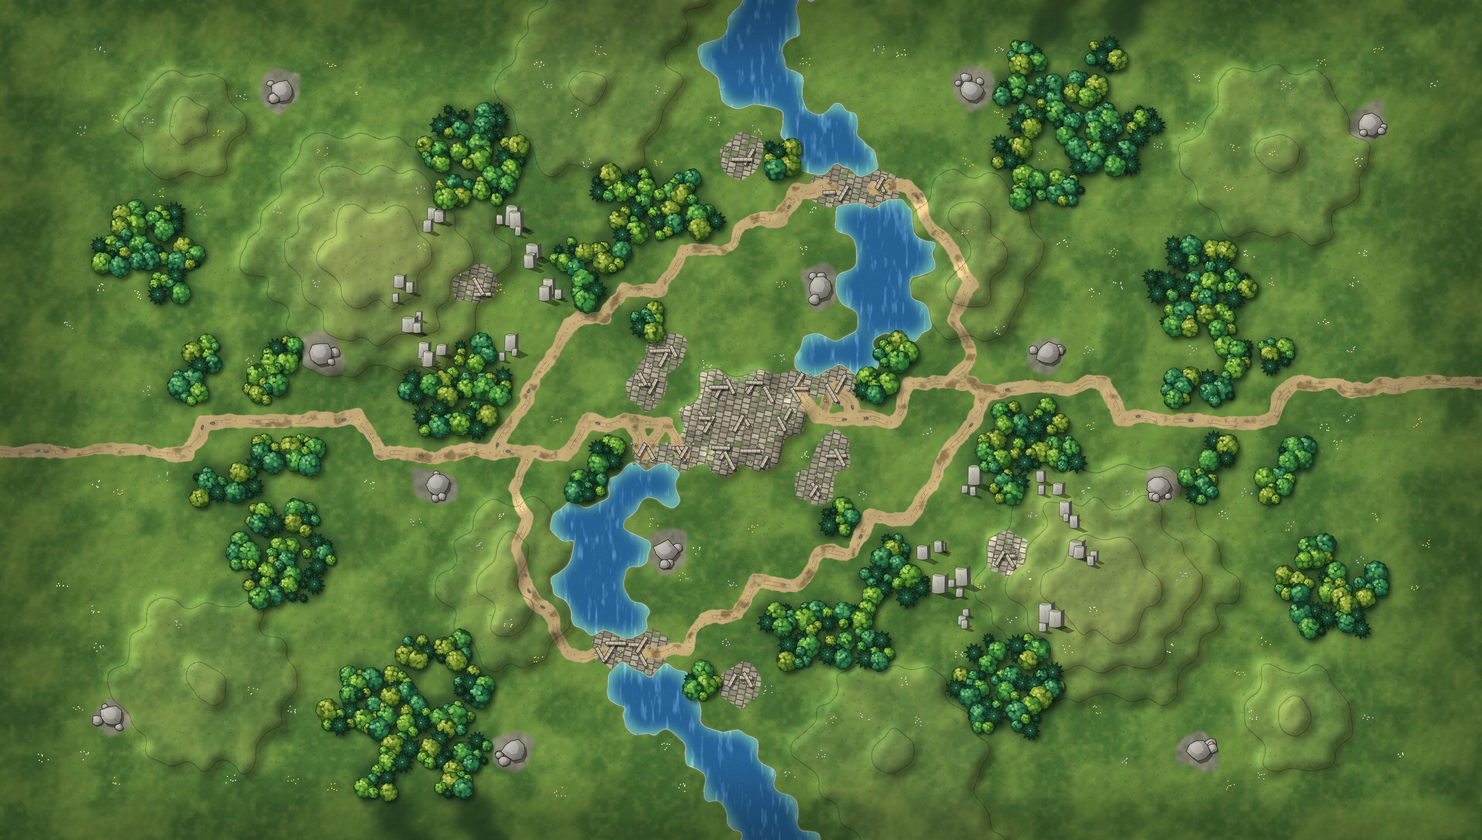
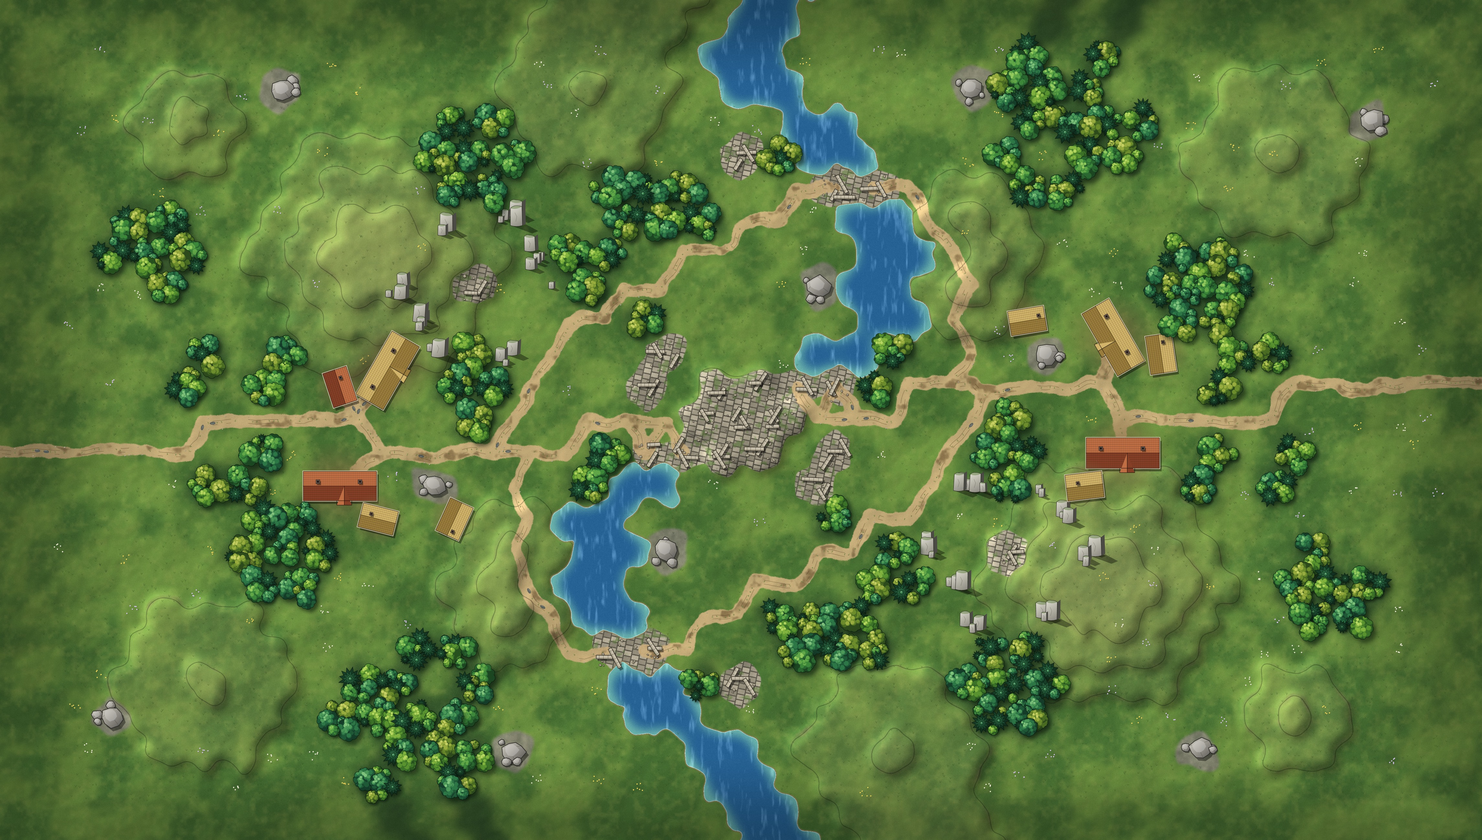
Add a village to Greenvale, goblins, heroes and a raid scenario (Goblin Warren)

diff --git a/src/engine.js b/src/engine.js
@@ -54,6 +54,7 @@ export const CLASSES = {
   worm:    { name: 'Rock worm',    glyph: 'M', hp: 20, atk: 6, move: 3, rmin: 1, rmax: 1, sight: 3, size: 'large', burrow: true, value: 1.5 },
   // regen: heals that much at the start of each of its own turns.
   troll:   { name: 'Cave troll',   glyph: 'T', hp: 22, atk: 6, move: 3, rmin: 1, rmax: 1, sight: 4, regen: 2 },
+  goblin:  { name: 'Goblin',  glyph: 'G', hp: 8,  atk: 4, move: 4, rmin: 1, rmax: 1, sight: 4, value: 0.5 },     // weak alone, dangerous in numbers
   wizard:  { name: 'Wizard',  glyph: 'W', hp: 8,  atk: 4, move: 3, rmin: 1, rmax: 3, sight: 5, pierce: true, spells: ['fireball', 'frost', 'blink'] },   // lightning ignores cover
 };
 
@@ -72,6 +73,11 @@ export const SPELLS = {
   web:      { name: 'Web',        rmin: 2, rmax: 3, cooldown: 3, dmg: 1, splash: 1, area: true, freeze: true, snare: true },
   blink:    { name: 'Blink',      rmin: 1, rmax: 4, cooldown: 3, blink: true },
 };
+
+// Heroes: a spawn marked `hero: true` makes a unit with HERO_HP times its class's hit points that hits
+// HERO_ATK harder — a party of a few against many. A unit's full health is maxHp(u).
+export const HERO_HP = 2, HERO_ATK = 0;
+export const maxHp = (u) => u.max || CLASSES[u.cls].hp;
 
 // Ground nothing can stand on (rock, lava).
 export const impassable = (c) => TERRAIN[c.t].cost === Infinity;
@@ -150,13 +156,18 @@ export function fits(state, unit, at = unit) {
 //       reaching `target` (map.siege.target, default 2) or by wiping the defenders out; the defender
 //       wins by wiping the attackers out or by lasting to the round limit (map.siege.rounds).
 //       A map that has a `siege` entry is played this way unless another mode is asked for.
+//       'raid' — asymmetric. The attackers must wipe the defenders (map.raid.defender, default 1 = Red)
+//       out before the round limit (map.raid.rounds); otherwise the defenders win. A map that has
+//       a `raid` entry is played this way unless another mode is asked for.
 //       'hold' — control points. At the end of each team's turn, any point with a unit standing on
 //       it goes to that unit's team and stays theirs until an enemy stands on it; the team whose
 //       turn is ending then scores 1 per point it owns. First to `target` wins (default 2 per
 //       point); wiping the enemy out still wins too. Points come from map.objectives, or are
 //       placed automatically along the line where the two armies meet.
 export function createGame(map, { maxRounds = 0, fog = false, counters = true, zoc = true, mode, target = 0, dragons = 'none', monsters, wild } = {}) {
-  if (!mode) mode = map.siege ? 'siege' : 'eliminate';
+  if (!mode) mode = map.siege ? 'siege' : map.raid ? 'raid' : 'eliminate';
+  const raid = mode === 'raid' ? { defender: 1, ...(map.raid || {}) } : null;
+  if (!maxRounds && raid?.rounds) maxRounds = raid.rounds;
   const siege = mode === 'siege' ? { defender: 1, target: 2, ...(map.siege || {}) } : null;
   if (!maxRounds && siege?.rounds) maxRounds = siege.rounds;
   if (!maxRounds) {                                // 30, or longer when the armies start far apart
@@ -168,7 +179,9 @@ export function createGame(map, { maxRounds = 0, fog = false, counters = true, z
   for (const team of [0, 1]) {
     map.spawns[team].forEach((s, i) => {
       const cls = s.cls || ROSTER[i % ROSTER.length];
-      units.push({ id: units.length, team, cls, q: s.q, r: s.r, hp: CLASSES[cls].hp, moved: false, acted: false });
+      const u = { id: units.length, team, cls, q: s.q, r: s.r, hp: CLASSES[cls].hp, moved: false, acted: false };
+      if (s.hero) { u.hero = true; u.max = u.hp = CLASSES[cls].hp * HERO_HP; }
+      units.push(u);
     });
   }
   // dragons: 'none' | 'both' | 'red' | 'blue' — an extra Dragon for those teams, behind their line.
@@ -245,10 +258,10 @@ export function createGame(map, { maxRounds = 0, fog = false, counters = true, z
     if (siege && !placed.length) objectives = objectives.slice(0, 1);
   }
   // roster: both starting line-ups (public knowledge, even under fog).
-  const roster = units.map(({ id, team, cls, q, r, o }) => ({ id, team, cls, q, r, o }));
+  const roster = units.map(({ id, team, cls, q, r, o, hero, max }) => ({ id, team, cls, q, r, o, ...(hero ? { hero, max } : {}) }));
   return { map, units, roster, turn: 0, round: 1, winner: null, maxRounds, fog, counters, zoc,
     mode, objectives, owners: objectives.map(() => (siege ? siege.defender : null)), score: [0, 0],
-    defender: siege ? siege.defender : null, target: target || (siege ? siege.target : 2 * objectives.length) };
+    defender: siege ? siege.defender : raid ? raid.defender : null, target: target || (siege ? siege.target : 2 * objectives.length) };
 }
 
 export const clone = (s) => ({ ...s, units: s.units.map((u) => ({ ...u })), owners: s.owners.slice(), score: s.score.slice() });
@@ -531,7 +544,7 @@ export function damage(map, attacker, from, target, at = target) {
   }
   if (cls.pierce) cover = Math.min(0, cover);
   const h = Math.max(-2, Math.min(2, high - low));
-  return Math.max(1, cls.atk + h - cover - (wet ? 1 : 0));
+  return Math.max(1, cls.atk + (attacker.hero ? HERO_ATK : 0) + h - cover - (wet ? 1 : 0));
 }
 
 // Damage `defender` would deal back to `attacker` (standing on `from`) after surviving its attack:
@@ -811,10 +824,10 @@ export function applyAction(state, a) {
       if (u.team === ending && u.frozen) u.frozen = 0;                         // its frozen turn is over
       if (u.team !== state.turn) continue;
       for (const sp of CLASSES[u.cls].spells || []) if (u['cd_' + sp] > 0) u['cd_' + sp]--;
-      if (CLASSES[u.cls].regen) u.hp = Math.min(CLASSES[u.cls].hp, u.hp + CLASSES[u.cls].regen);
+      if (CLASSES[u.cls].regen) u.hp = Math.min(maxHp(u), u.hp + CLASSES[u.cls].regen);
     }
     if (state.round > state.maxRounds) {         // out of time: on points if there are any, else a draw
-      if (state.mode === 'siege') { state.winner = state.defender; return ev; }      // the keep held out
+      if (state.mode === 'siege' || state.mode === 'raid') { state.winner = state.defender; return ev; }      // the keep (or the colony) held out
       const [s0, s1] = state.score;
       state.winner = s0 > s1 ? 0 : s1 > s0 ? 1 : 'draw';
     }
@@ -928,7 +941,7 @@ export function evaluate(state, team) {
   if (state.winner === team) return 1000;
   if (state.winner === 1 - team) return -1000;
   let v = 0;
-  for (const u of state.units) v += (u.team === team ? 1 : u.team === WILD ? -0.25 : -1) * (4 + 6 * u.hp / CLASSES[u.cls].hp) * (CLASSES[u.cls].value || 1);
+  for (const u of state.units) v += (u.team === team ? 1 : u.team === WILD ? -0.25 : -1) * (4 + 6 * u.hp / maxHp(u)) * (CLASSES[u.cls].value || 1) * (u.hero ? HERO_HP : 1);
   if (state.unseen) v += (state.observer === team ? -1 : 1) * state.unseen * 8;   // enemies we can't see still count
   if (state.mode === 'siege') {                  // the attacker wants points and has a clock against it
     const att = 1 - state.defender, side = team === att ? 1 : -1;

diff --git a/src/main.js b/src/main.js
@@ -223,17 +223,18 @@ function refresh() {
   $('undo').title = state.fog ? 'Not available under fog of war (a move may reveal enemies)' : '';
   if (state.winner !== null) {
     b.className = 'over';
-    const heldOut = state.mode === 'siege' && state.winner === state.defender && state.units.some((u) => u.team !== state.winner);
+    const heldOut = (state.mode === 'siege' || state.mode === 'raid') && state.winner === state.defender && state.units.some((u) => u.team !== state.winner);
     const onPoints = (state.mode === 'hold' || state.mode === 'siege') && !heldOut && state.winner !== 'draw' && state.units.some((u) => u.team !== state.winner);
     b.textContent = state.winner === 'draw' ? 'Draw — round limit reached'
-      : heldOut ? `${TEAM[state.winner]} wins — the keep held out!`
+      : heldOut ? `${TEAM[state.winner]} wins — the ${state.mode === 'raid' ? 'colony survived' : 'keep held out'}!`
       : `${TEAM[state.winner]} wins${onPoints ? ` on points, ${state.score[state.winner]}–${state.score[1 - state.winner]}` : ''}!`;
   } else {
     b.className = 't' + state.turn;
     const who = state.turn === E.WILD ? 'neutral monsters' : ais[state.turn] ? AIS[$('ctl' + state.turn).value].label + (thinking ? ', thinking\u2026' : '') : 'your move';
     b.textContent = `Round ${state.round}/${state.maxRounds} — ${TEAM[state.turn]} (${who})`
       + (state.mode === 'hold' ? `  ·  Blue ${state.score[0]} – ${state.score[1]} Red, first to ${state.target}` : '')
-      + (state.mode === 'siege' ? `  ·  ${TEAM[1 - state.defender]} ${state.score[1 - state.defender]}/${state.target} to take the keep · ${TEAM[state.defender]} must hold to round ${state.maxRounds}` : '');
+      + (state.mode === 'siege' ? `  ·  ${TEAM[1 - state.defender]} ${state.score[1 - state.defender]}/${state.target} to take the keep · ${TEAM[state.defender]} must hold to round ${state.maxRounds}` : '')
+      + (state.mode === 'raid' ? `  ·  ${TEAM[1 - state.defender]} must clear out ${TEAM[state.defender]} by round ${state.maxRounds}` : '');
   }
   $('info').textContent = infoText(me);
 }
@@ -290,8 +291,8 @@ function infoText(me) {
   if (view.fogVis && !view.fogVis.has(key(hover.q, hover.r))) lines.push('Out of sight');
   if (u) {
     const k = E.CLASSES[u.cls];
-    lines.push(`${label(u)} — HP ${u.hp}/${k.hp}`,
-      `ATK ${k.atk} · move ${k.move} · range ${k.rmin === k.rmax ? k.rmin : k.rmin + '–' + k.rmax + ' (+1 from high ground)'}${state.fog ? ` · sight ${k.sight}` : ''}`);
+    lines.push(`${u.hero ? 'Hero ' : ''}${label(u)} — HP ${u.hp}/${E.maxHp(u)}`,
+      `ATK ${k.atk + (u.hero ? E.HERO_ATK : 0)} · move ${k.move} · range ${k.rmin === k.rmax ? k.rmin : k.rmin + '–' + k.rmax + ' (+1 from high ground)'}${state.fog ? ` · sight ${k.sight}` : ''}`);
     if (k.size === 'large') lines.push('Large: occupies 3 hexes, cannot fit through single-hex gaps');
     if (k.pierce) lines.push('Lightning ignores cover');
     if (k.regen) lines.push(`Regenerates ${k.regen} HP at the start of each of its turns`);
@@ -683,7 +684,7 @@ async function openSavedMap(name) {
   custom = data;
   R.backdrop = bd;
   // A siege map is played as a siege; leaving one goes back to plain elimination.
-  if (data.siege) $('mode').value = 'siege'; else if ($('mode').value === 'siege') $('mode').value = 'eliminate';
+  if (data.siege) $('mode').value = 'siege'; else if (data.raid) $('mode').value = 'raid'; else if ($('mode').value === 'siege' || $('mode').value === 'raid') $('mode').value = 'eliminate';
   setOverlay(data.backdrop?.overlay ?? 0.4);
   if (bd) setView(true);
   store('map', name);

diff --git a/src/tokens.js b/src/tokens.js
@@ -255,6 +255,30 @@ function troll(team, facing = FACING[team]) {
   });
 }
 
+// Goblin: small and wiry — green skin, huge pointed ears, a ragged hood in the team's colour, a
+// crooked knife in one hand and a little buckler in the other.
+function goblin(team, facing = FACING[team]) {
+  return small(team, facing, (c, T) => {
+    const skin = [122, 166, 72], shade = [70, 104, 44];
+    shape(c, [[-0.02, -0.17], [-0.16, -0.19], [-0.27, -0.06], [-0.22, 0.02], [-0.29, 0.1], [-0.15, 0.19], [-0.02, 0.17]], rgb(T.dark), LW);   // ragged cape
+    shape(c, ellipse(0.12, 0.22, 0.14, 0.055, -0.25), rgb(skin), 0.024);                                            // knife arm
+    shape(c, [[0.22, 0.2], [0.5, 0.1], [0.6, 0.15], [0.47, 0.2], [0.25, 0.27]], rgb(STEEL[0]), 0.024);              // crooked blade
+    shape(c, ellipse(0.23, 0.235, 0.05, 0.05), rgb(skin), 0.02);
+    shape(c, ellipse(0.1, -0.2, 0.13, 0.055, 0.3), rgb(skin), 0.024);                                               // shield arm
+    shape(c, ellipse(0.24, -0.25, 0.14, 0.14), rgb(WOOD), LW);                                                      // buckler
+    shape(c, ellipse(0.24, -0.25, 0.05, 0.05), rgb(STEEL[1]), 0.02);
+    shape(c, ellipse(-0.02, 0, 0.13, 0.22), rgb(LEATHER[1]), LW);                                                   // narrow shoulders
+    for (const s of [-1, 1]) shape(c, [[0.02, 0.1 * s], [-0.1, 0.4 * s], [0.14, 0.15 * s]], rgb(skin), 0.024);       // ears
+    for (const s of [-1, 1]) shape(c, [[0.03, 0.14 * s], [-0.04, 0.31 * s], [0.09, 0.16 * s]], rgb(shade), 0);
+    const g = c.createRadialGradient(0.03, -0.05, 0.01, 0.07, 0, 0.17);
+    g.addColorStop(0, rgb(mix(skin, [240, 255, 200], 0.4))); g.addColorStop(1, rgb(skin));
+    shape(c, ellipse(0.07, 0, 0.16, 0.15), g, LW);                                                                  // head
+    shape(c, [[0.06, -0.15], [-0.1, -0.13], [-0.19, 0], [-0.1, 0.13], [0.06, 0.15], [0.0, 0]], rgb(T.base), 0.024); // hood, pushed back
+    shape(c, [[0.2, -0.03], [0.31, 0], [0.2, 0.03]], rgb(skin), 0.02);                                              // long nose
+    for (const s of [-1, 1]) { c.fillStyle = 'rgb(255,214,60)'; c.beginPath(); c.arc(0.15, 0.065 * s, 0.022, 0, 6.3); c.fill(); }
+  });
+}
+
 // ---- Dragon: no ring at all — the creature itself, wings spread across its seven hexes ----
 function dragon(team, facing = FACING[team]) {
   const T = TEAM[team], half = 2.55, U = 120;
@@ -427,7 +451,7 @@ function worm(team, facing = FACING[team]) {
 // A figure is repainted for each facing rather than turned as a picture, because the light and the
 // shadow must stay put while the figure turns. Facings are rounded to steps of 15 degrees.
 export function paintedTokens() {
-  const painters = { soldier, archer, scout, wizard, spider, bat, troll, dragon, ogre, worm }, cache = new Map(), STEP = Math.PI / 12;
+  const painters = { soldier, archer, scout, wizard, spider, bat, troll, goblin, dragon, ogre, worm }, cache = new Map(), STEP = Math.PI / 12;
   return {
     has: (cls) => !!painters[cls],
     facing: (team) => FACING[team] ?? 0,

diff --git a/index.html b/index.html
@@ -68,7 +68,7 @@
     <label title="How strongly the hex grid is drawn over the map. All the way left hides it.">Grid lines <input id="grid" type="range" min="0" max="1" step="0.05" value="1"></label>
     <label title="Dark lines on the high side of every slope (thin) and cliff (thick) in the top-down view. The height numbers stay either way."><span><input id="edges" type="checkbox" checked> Height edges</span></label>
     <label title="Falling snow, blowing sand, drifting cloud shadows, embers over lava. Purely decorative."><span><input id="weather" type="checkbox" checked> Weather</span></label>
-    <label>Objective <select id="mode"><option value="eliminate">Eliminate</option><option value="hold">Hold the points</option><option value="siege">Siege (Red defends)</option></select></label>
+    <label>Objective <select id="mode"><option value="eliminate">Eliminate</option><option value="hold">Hold the points</option><option value="siege">Siege (Red defends)</option><option value="raid">Raid (clear Red out)</option></select></label>
     <label title="A Dragon fills seven hexes, flies over anything, and breathes a cone of fire.">Dragons <select id="dragons"><option value="both">One each</option><option value="red">Red only</option><option value="blue">Blue only</option><option value="none">None</option></select></label>
     <label title="Extra creatures for both sides. Cave monsters: a web-spinning spider, a fast flying bat swarm and a rock worm that burrows through walls.">Monsters <select id="monsters"><option value="map">Map's own</option><option value="cave">Cave monsters</option><option value="none">None</option></select></label>
     <label title="Monsters that belong to neither side. Each guards the ground around its lair and attacks anyone who comes close; they move after Red.">Neutrals <select id="wild"><option value="map">Map's own</option><option value="auto">Add some</option><option value="none">None</option></select></label>
@@ -92,7 +92,7 @@
     <label style="margin-top:8px">Spawn class
       <select id="edCls">
         <option value="auto">Auto</option><option value="soldier">Soldier</option>
-        <option value="archer">Archer</option><option value="scout">Scout</option><option value="wizard">Wizard</option><option value="ogre">Ogre (3 hexes)</option><option value="dragon">Dragon (7 hexes)</option><option value="spider">Giant spider</option><option value="bat">Bat swarm</option><option value="worm">Rock worm (3 hexes)</option><option value="troll">Cave troll</option>
+        <option value="archer">Archer</option><option value="scout">Scout</option><option value="wizard">Wizard</option><option value="ogre">Ogre (3 hexes)</option><option value="dragon">Dragon (7 hexes)</option><option value="spider">Giant spider</option><option value="bat">Bat swarm</option><option value="worm">Rock worm (3 hexes)</option><option value="troll">Cave troll</option><option value="goblin">Goblin</option>
       </select></label>
     <label>Blank board
       <span><input id="edCols" class="sm" type="number" min="2" max="40" value="15"> ×

diff --git a/src/render.js b/src/render.js
@@ -1,5 +1,5 @@
 // 2.5D canvas renderer: hexes are drawn as prisms, back row first, so height reads naturally.
-import { CLASSES, footprint, isBig } from './engine.js';
+import { CLASSES, footprint, isBig, maxHp } from './engine.js';
 import { key, DIRS, hexRound } from './hex.js';
 import { buildings } from './paint.js';
 import { paintedTokens } from './tokens.js';
@@ -878,7 +878,7 @@ export class Renderer {
   unit(u, x, y, state) {
     const ctx = this.ctx, S = this.S, col = TEAM[u.team], cls = CLASSES[u.cls];
     if (this.flat) {                                 // round token that stays inside its hex
-      const f = u.hp / cls.hp, img = this.tokens?.[u.cls]?.[u.team], r = S * (img ? 0.56 : 0.46);
+      const f = u.hp / maxHp(u), img = this.tokens?.[u.cls]?.[u.team], r = S * (img ? 0.56 : 0.46);
       // A painted figure when there is one — but a one-hex figure too small to make out falls back to its coin.
       const figure = (isBig(u) || S >= 20) && this.painted ? this.painted.get(u.cls, u.team, this.facing?.get(u.id)) : null;
       if (!figure) {
@@ -906,6 +906,12 @@ export class Renderer {
       ctx.fillStyle = '#111'; ctx.fillRect(bx - 1, by - 1, bw + 2, bh + 2);
       ctx.fillStyle = f > 0.5 ? '#5fd35f' : f > 0.25 ? '#f0c040' : '#f05040';
       ctx.fillRect(bx, by, bw * f, bh);
+      if (u.hero) {                                  // a gold star beside a hero's health bar
+        const sx = bx - bh * 1.5, sy = by + bh / 2, R = bh * 1.25;
+        ctx.beginPath();
+        for (let i = 0; i < 10; i++) { const a = -Math.PI / 2 + i * Math.PI / 5, rr = i % 2 ? R * 0.45 : R; ctx.lineTo(sx + Math.cos(a) * rr, sy + Math.sin(a) * rr); }
+        ctx.closePath(); ctx.fillStyle = '#ffd34a'; ctx.fill(); ctx.lineWidth = 1; ctx.strokeStyle = '#3a2808'; ctx.stroke();
+      }
       return;
     }
     ctx.fillStyle = 'rgba(0,0,0,0.3)';
@@ -927,7 +933,7 @@ export class Renderer {
     ctx.restore();
 
     const bw = S * 0.84, bh = Math.max(4, S * 0.13), bx = x - bw / 2, by = y - S * 1.2;
-    const f = u.hp / cls.hp;
+    const f = u.hp / maxHp(u);
     ctx.fillStyle = '#111'; ctx.fillRect(bx - 1, by - 1, bw + 2, bh + 2);
     ctx.fillStyle = f > 0.5 ? '#5fd35f' : f > 0.25 ? '#f0c040' : '#f05040';
     ctx.fillRect(bx, by, bw * f, bh);

diff --git a/arena.js b/arena.js
@@ -1,5 +1,5 @@
 // Headless AI-vs-AI tournament.
-//   node arena.js <aiA> <aiB> [--games 20] [--seed 1] [--map name-or-path] [--fog] [--no-counters] [--no-zoc] [--hold | --siege | --eliminate] [--dragons] [--monsters | --no-monsters] [--wild | --no-wild] [--size 6]
+//   node arena.js <aiA> <aiB> [--games 20] [--seed 1] [--map name-or-path] [--fog] [--no-counters] [--no-zoc] [--hold | --siege | --raid | --eliminate] [--dragons] [--monsters | --no-monsters] [--wild | --no-wild] [--size 6]
 // Each map is played twice with sides swapped, so first-move and terrain advantage cancel out.
 // --map uses a saved map (maps/<name>.json) for every game instead of generated ones.
 // --fog plays with fog of war: each AI is only shown what its own team can see.
@@ -19,10 +19,10 @@ import { AIS } from './src/ai/index.js';
 
 const args = process.argv.slice(2);
 const opt = (name, def) => { const i = args.indexOf('--' + name); return i >= 0 ? +args[i + 1] : def; };
-const SWITCHES = ['--fog', '--no-counters', '--no-zoc', '--hold', '--siege', '--eliminate', '--dragons', '--monsters', '--no-monsters', '--wild', '--no-wild'];  // flags that take no value
+const SWITCHES = ['--fog', '--no-counters', '--no-zoc', '--hold', '--siege', '--raid', '--eliminate', '--dragons', '--monsters', '--no-monsters', '--wild', '--no-wild'];  // flags that take no value
 const fog = args.includes('--fog');
 const rules = { fog, counters: !args.includes('--no-counters'), zoc: !args.includes('--no-zoc'),
-  mode: args.includes('--hold') ? 'hold' : args.includes('--siege') ? 'siege' : args.includes('--eliminate') ? 'eliminate' : undefined, dragons: args.includes('--dragons') ? 'both' : 'none',
+  mode: args.includes('--hold') ? 'hold' : args.includes('--siege') ? 'siege' : args.includes('--raid') ? 'raid' : args.includes('--eliminate') ? 'eliminate' : undefined, dragons: args.includes('--dragons') ? 'both' : 'none',
   monsters: args.includes('--no-monsters') ? [] : args.includes('--monsters') ? PACKS.cave : undefined,
   wild: args.includes('--no-wild') ? [] : args.includes('--wild') ? 'auto' : undefined };
 const [nameA, nameB] = args.filter((a, i) => !a.startsWith('--') && !((args[i - 1] || '').startsWith('--') && !SWITCHES.includes(args[i - 1])));

diff --git a/src/ai/greedy.js b/src/ai/greedy.js
@@ -3,7 +3,7 @@
 import { CLASSES, TERRAIN, SPELLS, cellAt, unitOptions, damage, distanceField, applyAction, visibleCells, spellHits, counterDamage, footprint } from '../engine.js';
 import { key, dist } from '../hex.js';
 
-function scoreOption(state, u, o, enemies, field) {
+function scoreOption(state, u, o, enemies, field, asleep = false) {
   const cell = cellAt(state.map, o);
   const ranged = CLASSES[u.cls].rmax > 1;
   // Cover and height only matter once the enemy is close; otherwise a unit would camp in the first ruin it finds.
@@ -32,10 +32,13 @@ function scoreOption(state, u, o, enemies, field) {
     const i = state.objectives.findIndex((p) => on.some((c) => c.q === p.q && c.r === p.r));
     if (i >= 0 && state.owners[i] !== u.team) s += state.owners[i] === null ? 30 : 42;
   }
-  s -= (field.get(key(o.q, o.r)) ?? 99) * (ranged ? 1.5 : 2.5);       // close the distance
+  if (asleep) s -= dist(o, u) * 2;                                    // nobody near: stay put
+  else s -= (field.get(key(o.q, o.r)) ?? 99) * (ranged ? 1.5 : 2.5);  // close the distance
   if (ranged && enemies.some((e) => dist(e, o) < 2)) s -= 8;          // archers hate melee
   return s;
 }
+
+const WAKE = 10;                                     // moves away at which a raided colony's defenders stir
 
 // Best next action for the side to move, or null when every unit is done.
 // noise > 1 picks randomly among the top `noise` options (used by the sampler to diversify plans).
@@ -58,7 +61,9 @@ export function bestAction(state, noise = 0, rng = Math.random, goals = []) {
   const cands = [];
   for (const u of state.units) {
     if (u.team !== state.turn || u.acted) continue;
-    for (const o of unitOptions(state, u)) cands.push({ u, o, s: scoreOption(state, u, o, enemies, field) });
+    // A colony being raided doesn't march out: each defender keeps its post until a raider comes near.
+    const asleep = state.mode === 'raid' && u.team === state.defender && (field.get(key(u.q, u.r)) ?? 99) > WAKE;
+    for (const o of unitOptions(state, u)) cands.push({ u, o, s: scoreOption(state, u, o, enemies, field, asleep) });
   }
   if (!cands.length) return null;
   cands.sort((a, b) => b.s - a.s);

diff --git a/src/mapgen.js b/src/mapgen.js
@@ -28,6 +28,8 @@ export function generateMap(seed = 1, radius = 6) {
 //     wild: [{q, r, cls}],                   neutral monsters and where they lair (optional)
 //     monsters: ['spider', 'bat', 'worm'],   extra units each side gets on this map (optional)
 //     siege: { defender: 1, target: 2, rounds: 16 },   an asymmetric scenario: see createGame's 'siege' mode (optional)
+//     raid: { defender: 1, rounds: 24 },   an asymmetric scenario: see createGame's 'raid' mode (optional).
+//                                    Spawns may be marked hero: true (tougher units: see HERO_HP in the engine).
 //     biome: 'meadow' | 'snow' | 'desert' | 'cave',   the art style it was painted in; picks the weather (optional)
 //     ceiling: true,                 a cave: flyers can't cross rock (optional)
 //     backdrop: { image: 'file.png', hexPx, ox, oy } | null }
@@ -39,7 +41,7 @@ export function mapFromData(d) {
   const spawns = [0, 1].map((t) => (d.spawns?.[t] || []).map((s) => ({ ...s })));
   const objectives = (d.objectives || []).map(({ q, r }) => ({ q, r }));
   return { cells, spawns, objectives, ceiling: !!d.ceiling, monsters: Array.isArray(d.monsters) ? d.monsters.slice() : null,
-    wild: (d.wild || []).map((w) => ({ ...w })), siege: d.siege ? { ...d.siege } : null, biome: d.biome || null, losCache: new Map(), seed: d.name || 'custom', name: d.name || null };
+    wild: (d.wild || []).map((w) => ({ ...w })), siege: d.siege ? { ...d.siege } : null, raid: d.raid ? { ...d.raid } : null, biome: d.biome || null, losCache: new Map(), seed: d.name || 'custom', name: d.name || null };
 }
 
 export function mapToData(map, name = null, backdrop = null) {
@@ -52,6 +54,7 @@ export function mapToData(map, name = null, backdrop = null) {
     ceiling: !!map.ceiling,
     ...(map.biome ? { biome: map.biome } : {}),
     ...(map.siege ? { siege: { ...map.siege } } : {}),
+    ...(map.raid ? { raid: { ...map.raid } } : {}),
     ...(map.monsters ? { monsters: map.monsters.slice() } : {}),
     ...(map.wild?.length ? { wild: map.wild.map(({ q, r, cls }) => ({ q, r, cls })) } : {}),
     backdrop,

diff --git a/src/ai/sampler.js b/src/ai/sampler.js
@@ -30,7 +30,7 @@ export default {
       if (!belief) {
         belief = new Map();
         for (const s of state.roster) {
-          if (s.team === foe) belief.set(s.id, { q: s.q, r: s.r, o: s.o, cls: s.cls, hp: CLASSES[s.cls].hp, tick: 2 - team });
+          if (s.team === foe) belief.set(s.id, { q: s.q, r: s.r, o: s.o, cls: s.cls, hp: s.max || CLASSES[s.cls].hp, tick: 2 - team });
         }
       }
       const seen = new Set();
